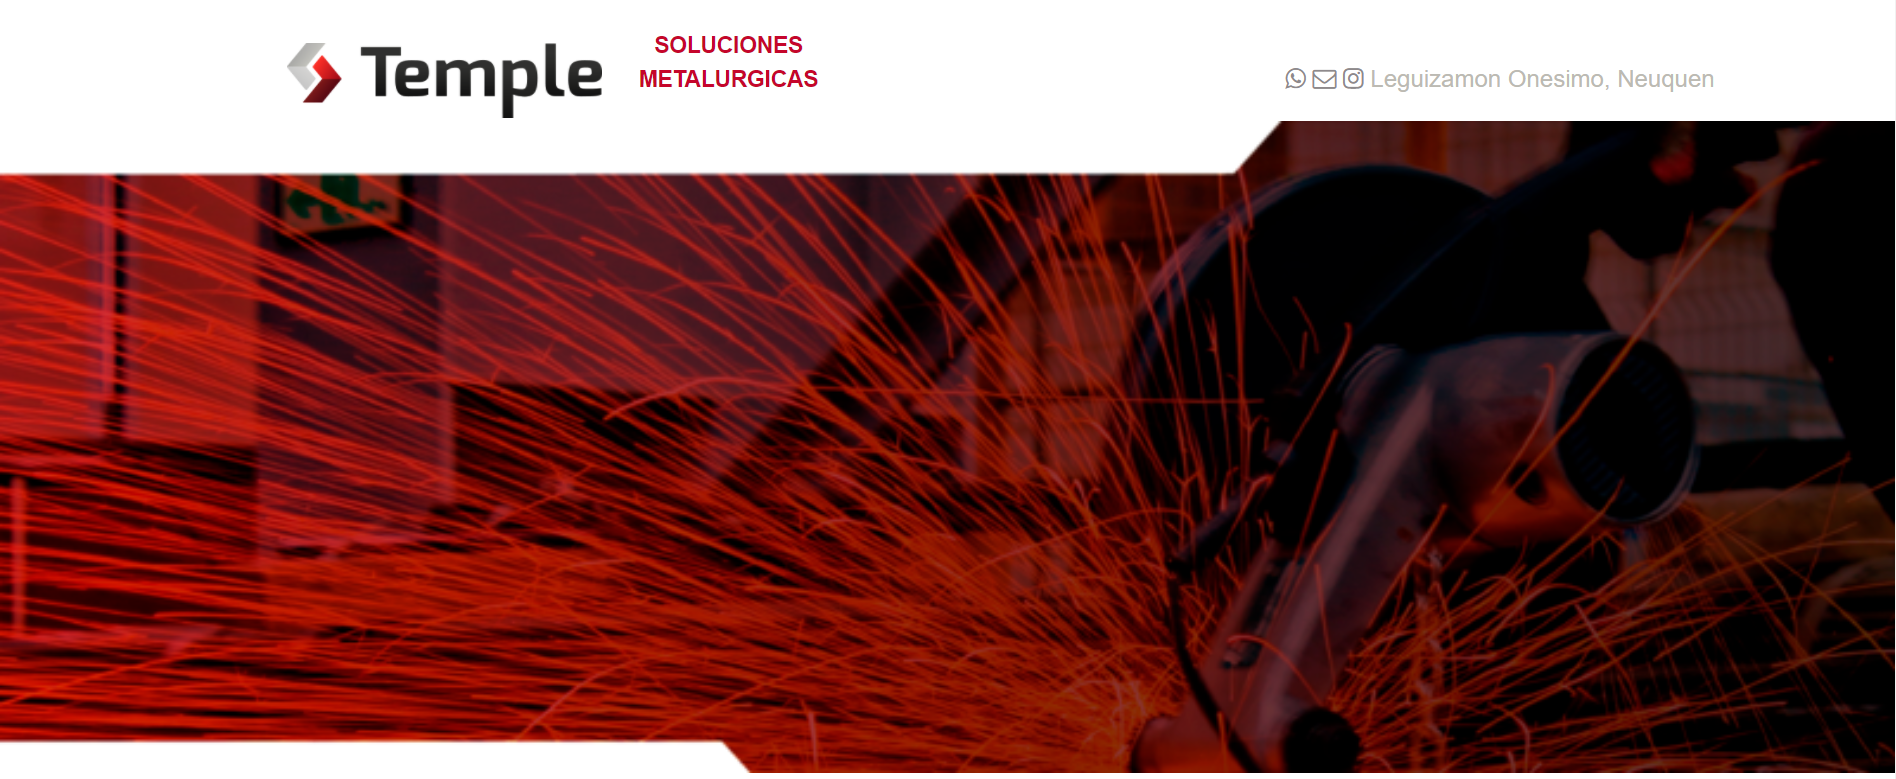
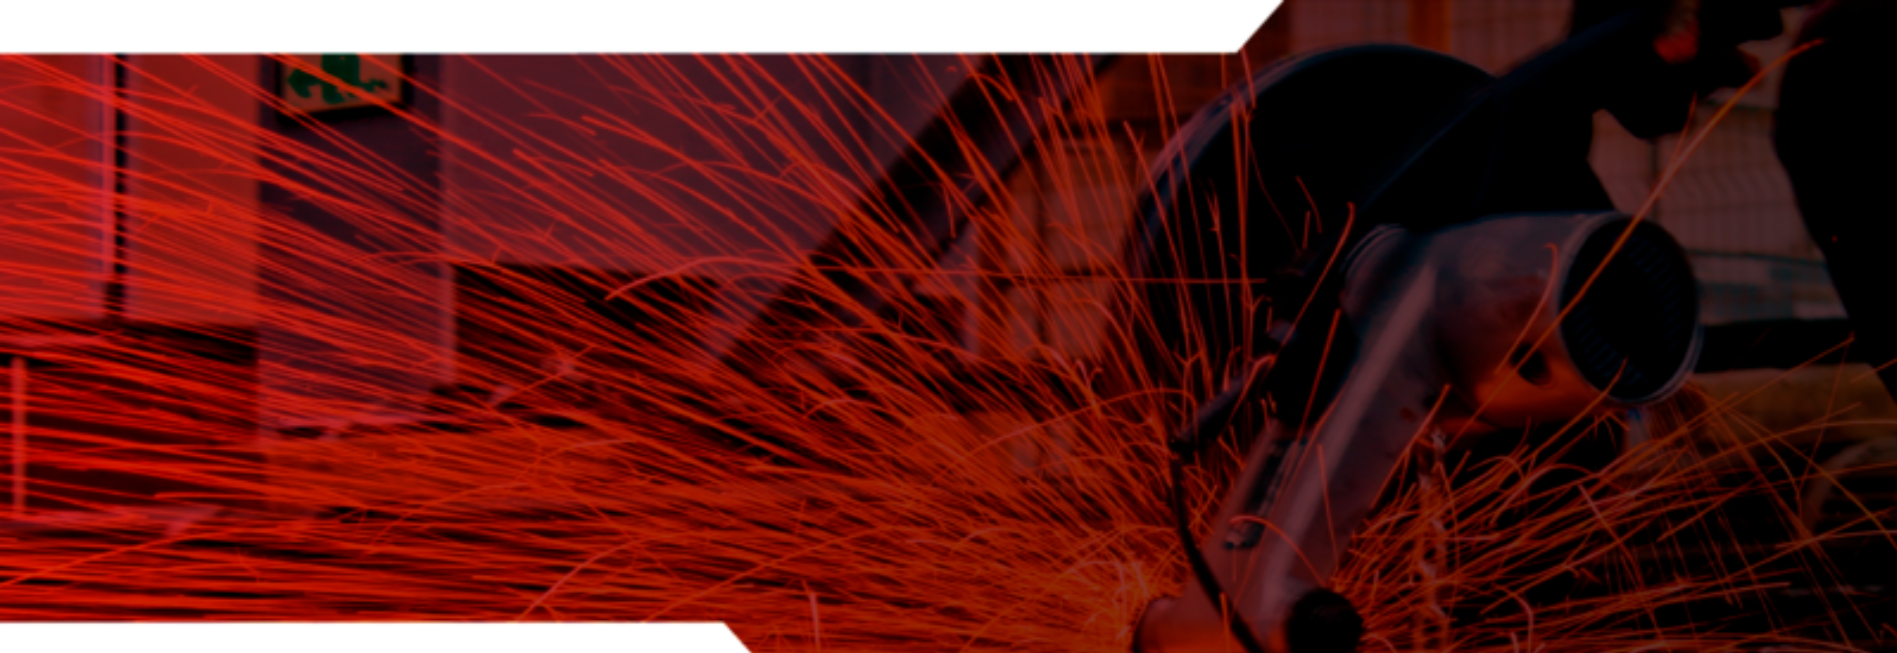
update html and css

diff --git a/index.html b/index.html
@@ -3,16 +3,23 @@
 <head>
     <link rel="stylesheet" type="text/css" href="/style.css">
     <link rel="stylesheet" href="https://cdnjs.cloudflare.com/ajax/libs/font-awesome/4.7.0/css/font-awesome.min.css">
+    <script src="https://kit.fontawesome.com/bd3ebe9873.js" crossorigin="anonymous"></script>
 </head>
 <body>
 <div class="container">
 
-
-    <h1>Temple</h1>
-    <h2>SOLUCIONES METALURGICAS</h2>
-    <a href="#" class="fa fa-instagram"></a>
-    <img id='back' src="/assets/background1.PNG" alt="temple">
-    <h2>Quienes somoss</h2>
+    <div id="divTittle">
+        <h1>Temple</h1>
+        <h2 id="soluciones">SOLUCIONES METALURGICAS</h2>
+        <div id="icons">
+            <i class="fa-brands fa-instagram"></i>
+            <i class="fa-brands fa-whatsapp"></i>
+            <i class="fa-regular fa-envelope"></i>
+            <span>Leguizamón Onesimo, Neuquén</span>
+        </div>
+    </div>
+        <img id='back' src="/assets/background1.PNG" alt="temple">
+    <h2>Quienes somos</h2>
     <div id="quienes">
         <p id='desc'>
             Somos una empresa que transforma un material noble y duradero como lo es el metal, en objetos de necesidad para la industria metalúrgica.
@@ -26,9 +33,7 @@
         </ul>
     </div>
     <h2>Servicios y Productos</h2>
-    <div class="obras">
-        <img src="/assets/obras.png" alt="obras">
-    </div>
+    <img id='back' src="/assets/obras.png" alt="obras">
     <h2>Nuestra Historia</h2>
     <p>
         Alberto Pesiney en el año 1976 funda Hierros Neuquén, dedicándose a la venta de productos metalúrgicos, siendo pioneros en el rubro por muchos años dentro de la Patagonia.
@@ -96,27 +101,29 @@
 
     <h1>Contacto</h1>
     <div id="contacto">
-        <div>
-
+        <div class="column">
             <iframe 
             src="https://www.google.com/maps/embed?pb=!1m18!1m12!1m3!1d3102.4684281274226!2d-68.0701876846888!3d-38.958970679561155!2m3!1f0!2f0!3f0!3m2!1i1024!2i768!4f13.1!3m3!1m2!1s0x960a33cb198c2e33%3A0x465ceb8aa24cbb5d!2sLeguizam%C3%B3n%20Onesimo%20345%2C%20Q8302EBG%20Neuqu%C3%A9n!5e0!3m2!1ses!2sar!4v1646781466625!5m2!1ses!2sar"
             width="600" height="450" style="border:0;" allowfullscreen="" loading="lazy"
             >
-        </div>
-        <div id="form">    
             </iframe>
+        </div>
+        <div class="column">    
             <h4>Excribinos</h4>
-            <span>+54 9 229 4425942</span>
-            <span>+54 9 2995507220</span>
-            <span>Ventas@templebienhecho.com.ar</span>
-            <span>Leguizamón Onésimo 345, Neuquén</span>
-            <span>@templebienhecho</span>
-            <span>@templebienhecho</span>
+            <p>+54 9 229 4425942</p>
+            <p>+54 9 2995507220</p>
+            <p>Ventas@templebienhecho.com.ar</p>
+            <p>Leguizamón Onésimo 345, Neuquén</p>
+            <p>@templebienhecho</p>
+            <p>@templebienhecho</p>
+            <form action="">
+                <input id="formItem" type="text" placeholder="Nombre">
+                <input id="formItem" type="email" placeholder="Email">
+                <textarea id="formItem">
+            </form>
         </div>
     </div>
-    <form action="">
-        <input type="text">
-    </form>
+
 
 </div>
 </body>

diff --git a/style.css b/style.css
@@ -1,6 +1,4 @@
-iframe {
-    max-width: 50%;
-}
+
 .container {
     display: flex;
     flex-direction: column;
@@ -32,10 +30,10 @@ iframe {
 }
 
 #obras {
+    max-width: 90%;
     display: flex;
     justify-content: center;
     align-items: center;
-    max-width: 90%;
     margin: 1rem;
 }
 
@@ -65,9 +63,39 @@ iframe {
 }
 
 #contacto {
-    flex-direction: row;
+    margin-left: 3rem;
+    width: 100%;
+    display: flex;
+}
+.column {
+    width: 50%;
+}
+  
+iframe {
+    max-width: 90%;
 }
 
-#form {
+form {
+    max-width: 60%;
+    display: flex;
+    flex-direction: column;
+}
+
+#formItem {
+    margin: 0.3rem;
+}
+
+textarea {
+    min-height: 80px;
+}
+
+#divTittle {
+    width: 90%;
+    display: flex;
     flex-direction: row;
+    justify-content: space-between;
+}
+
+#soluciones {
+    max-width: 50px;
 }
